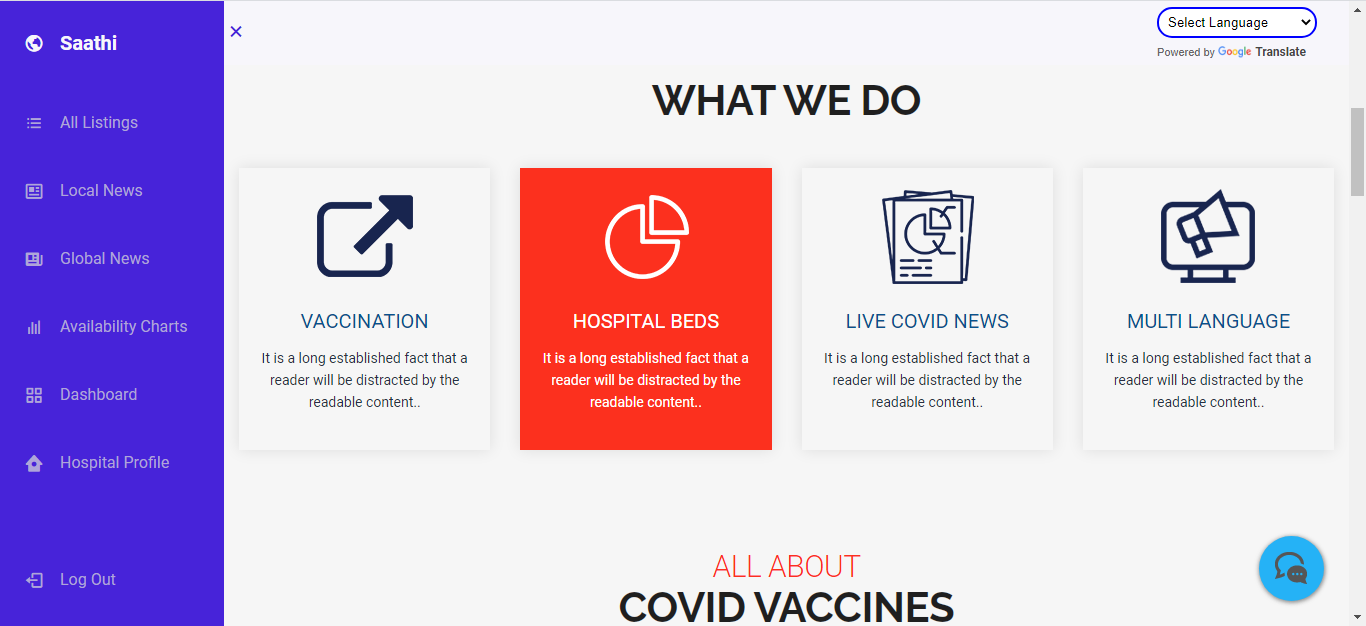
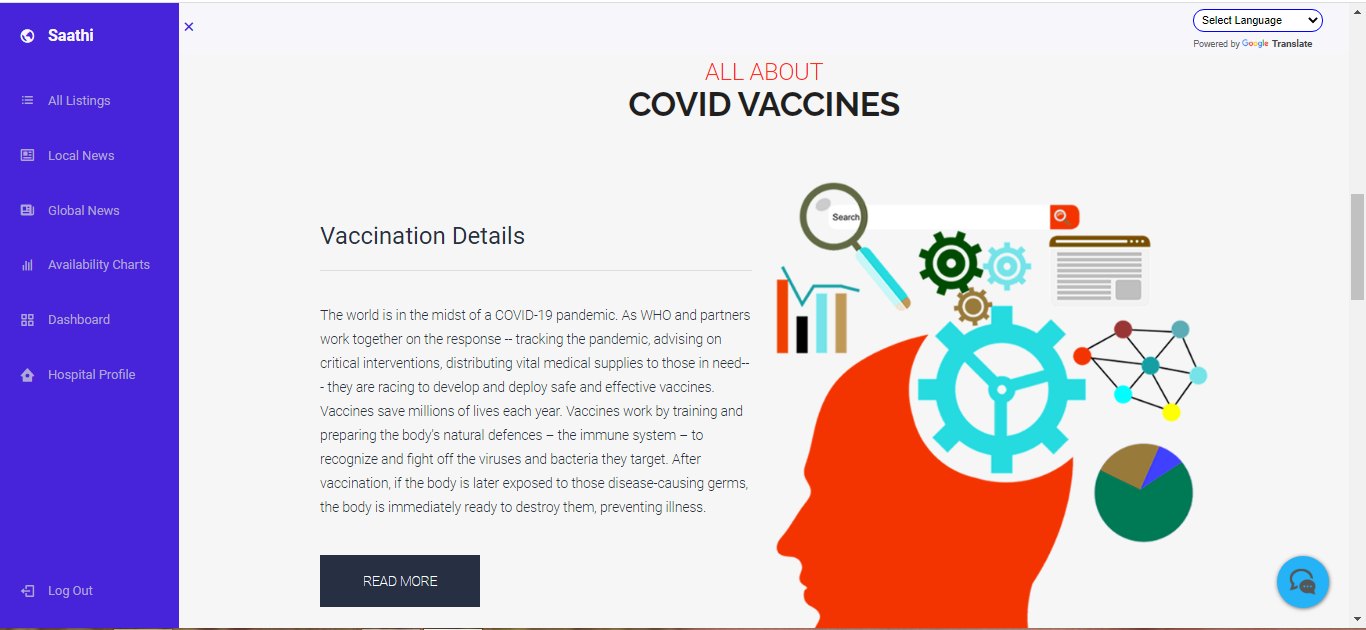
readme content update

diff --git a/blog/templates/blog/index.html b/blog/templates/blog/index.html
@@ -82,7 +82,7 @@
                        <h4>Vaccination</h4>
                     </div>
                     <div class="full">
-                      <p>It is a long established fact that a reader will be distracted by the readable content..</p>
+                      <p>One stop destination for locating all nearby vaccination centres and hotspots around you.</p>
                     </div>
                 </div>
              </div>
@@ -96,7 +96,7 @@
                        <h4>Hospital Beds</h4>
                     </div>
                     <div class="full">
-                      <p>It is a long established fact that a reader will be distracted by the readable content..</p>
+                      <p>View list of available beds in various hospitals and also book them directly by filling a form.</p>
                     </div>
                 </div>
              </div>
@@ -110,7 +110,7 @@
                        <h4>Live COVID News</h4>
                     </div>
                     <div class="full">
-                      <p>It is a long established fact that a reader will be distracted by the readable content..</p>
+                      <p>Be up to date with all the buzz caused by COVID both globally and locally to ensure awareness.</p>
                     </div>
                 </div>
              </div>
@@ -124,7 +124,7 @@
                        <h4>Multi Language</h4>
                     </div>
                     <div class="full">
-                      <p>It is a long established fact that a reader will be distracted by the readable content..</p>
+                      <p>Our website can be viewed in any language so that there is no language barrier.</p>
                     </div>
                 </div>
              </div>
@@ -150,7 +150,8 @@
                    <div class="heading_small">
                      <h4>Vaccination Details</h4>
                    </div>
-                   <p>There are many variations of passages of Lorem Ipsum available, but the majority have suffered alteration in some form, by injected humour, or randomised words which don't look even slightly believable. If you are going to use a pass<br><br>age of Lorem Ipsum, you need to be sure there isn'There are many variations of passages of Lorem Ipsum available, but the majority have suffered alteration in some form, by injected humour, or randomised words which don't look even slightly believable. If you are going to use a passage of Lorem Ipsum, you need to be sure there isn</p>
+                   <p>The world is in the midst of a COVID-19 pandemic. As WHO and partners work together on the response -- tracking the pandemic, advising on critical interventions, distributing vital medical supplies to those in need--- they are racing to develop and deploy safe and effective vaccines.
+                     Vaccines save millions of lives each year. Vaccines work by training and preparing the body’s natural defences – the immune system – to recognize and fight off the viruses and bacteria they target. After vaccination, if the body is later exposed to those disease-causing germs, the body is immediately ready to destroy them, preventing illness.</p>
                  </div>
                  <div class="full margin-top_30">
                    <a class="readmore_bt" href="about.html">Read More</a>

diff --git a/readme.md b/readme.md
@@ -21,7 +21,7 @@ Our platform helps patients to keep themselves updated with the no of beds avail
  
 ## Main features 
 - Our Services 
-<img src='Examples/2.png' >
+<img src='Examples/11.png' >
 
 - Find Vaccination Centers 
 <img src='Examples/3.png' >
